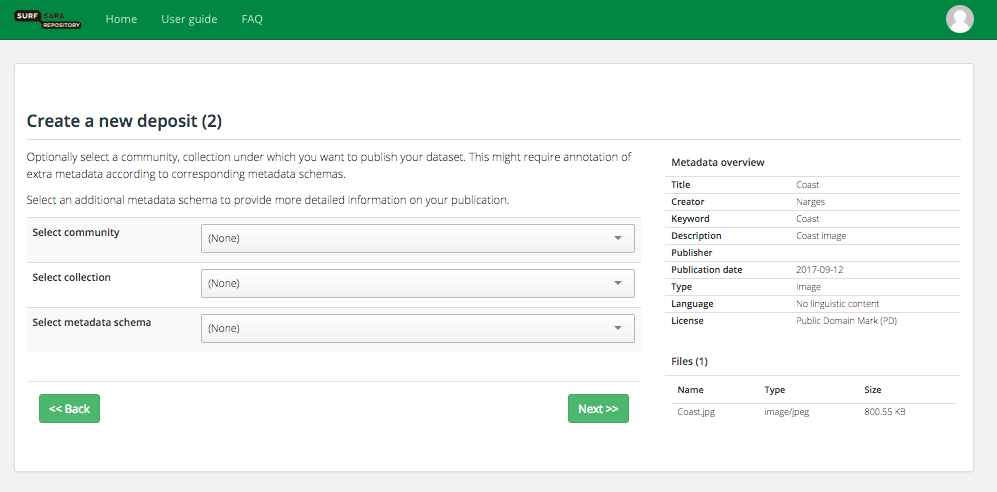
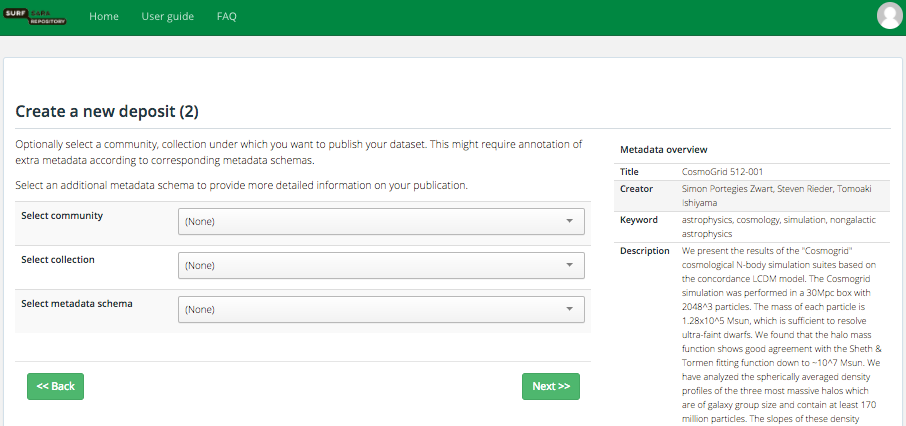
Add deposit step 3 image

diff --git a/source/Pages/Basics/basic_usage.rst b/source/Pages/Basics/basic_usage.rst
@@ -69,13 +69,15 @@ Deposit is the act of uploading data to the Data Repository. Only registered use
  .. image:: ../Screenshots/deposit1.png
    :align: center
 
-In this step you should also select the type of data and language of the data and a license for ypublication. The license can be selected through a built-in wizard. If you are not sure which license to choose, answer the questions on the top of the built-in wizard form to find the appropriate license. If your data is completely open to the public, no license is needed and this field can be skipped.
+ In this step you should also select the type of data and language of the data and a license for ypublication. The license can be selected through a built-in wizard. If you are not sure which license to choose, answer the questions on the top of the built-in wizard form to find the appropriate license. If your data is completely open to the public, no license is needed and this field can be skipped.
 
  .. image:: ../Screenshots/license.png
    :align: center
 
 
-2. Next you can optionally select a community, collection and/or metadata schema. If you are a memeber of a community and you want to deposit data in that community, select the community name. The collection and metadata schema will be prepopulated based on which community you choose. If you are not member of any communities, you will see the collections and schemas defined by yourself. This step is optional and can be skipped.
+2. Next you can optionally select a community, collection and/or metadata schema. If you are a memeber of a community and you want to deposit data in that community, select the community name. The collection and metadata schema will be prepopulated based on which community you choose. If you are not member of any communities, you will see the collections and schemas defined by yourself. 
+
+ .. sidebar:: This step is optional and can be skipped. In the right you can the basic metadata you defined for the deposit.
 
  .. image:: ../Screenshots/deposit2.png
    :align: center
@@ -83,7 +85,9 @@ In this step you should also select the type of data and language of the data an
 
 3. Finally you can fill in optional information about privacy settings on your data such as Embargo and end publication date. You can also specify links that are related to this publication. Please read the terms of use and agree with that by checking the checkbox before depositing data. In the end, click on the **Complete** button to finalize your deposit.
 
-The latest deposits can be seen on the the top-right pannle in your homepage. 
+ .. image:: ../Screenshots/deposit3.png
+   :align: center
+
 
 .. _find-data:
 
